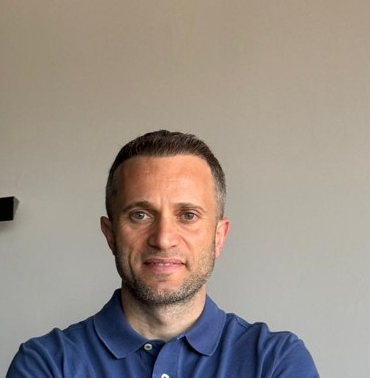
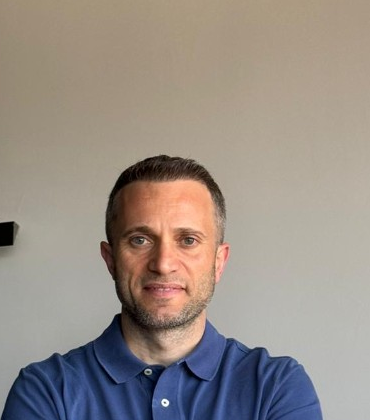
Add new speaker photos, reorder cards, apply noir filters

diff --git a/index.html b/index.html
@@ -315,11 +315,17 @@
       transition: filter .3s;
     }
     .speaker-card:hover .sp-photo { filter: grayscale(100%) brightness(1.08); }
-    .sp-photo--sinan { object-position: center 75%; }
+    .sp-photo--sinan { object-position: center top; }
+    .sp-photo--katov { filter: grayscale(100%) contrast(1.4) brightness(0.85); }
+    .sp-photo--katov:hover { filter: grayscale(100%) contrast(1.4) brightness(0.85); }
+    .sp-photo--rositsa { object-position: center top; filter: grayscale(100%) contrast(1.4) brightness(0.85); }
+    .sp-photo--rositsa:hover { filter: grayscale(100%) contrast(1.4) brightness(0.85); }
     .sp-photo--dimitrov { object-position: center 38%; }
     .sp-photo--mikel { object-position: center 28%; }
-    .sp-photo--godar { object-position: center 23%; }
-    .sp-photo--bratkov { object-position: center 27%; }
+    .sp-photo--godar { object-position: center 38%; filter: grayscale(100%) brightness(0.82); }
+    .sp-photo--godar:hover { filter: grayscale(100%) brightness(1.08); }
+    .sp-photo--bratkov { object-position: center 27%; filter: grayscale(100%) contrast(1.4) brightness(0.85); }
+    .sp-photo--bratkov:hover { filter: grayscale(100%) contrast(1.4) brightness(0.85); }
     .sp-photo--ilja { object-position: center 22%; }
     .sp-info {
       padding: 16px 18px 18px;
@@ -1057,8 +1063,9 @@
       <h2 data-i18n="speakers.title">Лектори</h2>
     </div>
     <div class="speakers-grid">
+      <!-- Row 1: Кътов, Браткова, Братков, Годар -->
       <div class="speaker-card">
-        <img class="sp-photo" src="sp-katov.png" alt="Георги Кътов" />
+        <img class="sp-photo sp-photo--katov" src="sp-katov.png" alt="Георги Кътов" />
         <div class="sp-info">
           <div class="sp-country" data-i18n="country.bg">България</div>
           <div class="sp-name" data-i18n="sp.katov">Георги Кътов</div>
@@ -1066,13 +1073,30 @@
         </div>
       </div>
       <div class="speaker-card">
-        <img class="sp-photo" src="sp-todorov.png" alt="Пламен Тодоров" />
+        <img class="sp-photo sp-photo--rositsa" src="sp-rositsa.png" alt="Росица Браткова" />
         <div class="sp-info">
           <div class="sp-country" data-i18n="country.bg">България</div>
-          <div class="sp-name" data-i18n="sp.todorov">Пламен Тодоров</div>
-          <div class="sp-studio">Zoom Studio</div>
+          <div class="sp-name" data-i18n="sp.rositsa">Росица Браткова</div>
+          <div class="sp-studio">AEDES Studio</div>
         </div>
       </div>
+      <div class="speaker-card">
+        <img class="sp-photo sp-photo--bratkov" src="sp-bradkov.png" alt="Пламен Братков" />
+        <div class="sp-info">
+          <div class="sp-country" data-i18n="country.bg">България</div>
+          <div class="sp-name" data-i18n="sp.bradkov">Пламен Братков</div>
+          <div class="sp-studio">AEDES Studio</div>
+        </div>
+      </div>
+      <div class="speaker-card">
+        <img class="sp-photo sp-photo--godar" src="sp-godar.png" alt="Naura Godar" />
+        <div class="sp-info">
+          <div class="sp-country">USA</div>
+          <div class="sp-name">Naura Godar</div>
+          <div class="sp-studio">RDG Design &amp; Planning</div>
+        </div>
+      </div>
+      <!-- Row 2: Митрович, Кузманович, Тодоров, Станчева -->
       <div class="speaker-card">
         <img class="sp-photo" src="sp-mitrovic.png" alt="Бранислав Митрович" />
         <div class="sp-info">
@@ -1090,19 +1114,19 @@
         </div>
       </div>
       <div class="speaker-card">
-        <img class="sp-photo sp-photo--bratkov" src="sp-bradkov.png" alt="Пламен Братков" />
+        <img class="sp-photo" src="sp-todorov.png" alt="Пламен Тодоров" />
         <div class="sp-info">
           <div class="sp-country" data-i18n="country.bg">България</div>
-          <div class="sp-name" data-i18n="sp.bradkov">Пламен Братков</div>
-          <div class="sp-studio">AEDES Studio</div>
+          <div class="sp-name" data-i18n="sp.todorov">Пламен Тодоров</div>
+          <div class="sp-studio">Zoom Studio</div>
         </div>
       </div>
       <div class="speaker-card">
-        <img class="sp-photo sp-photo--godar" src="sp-godar.png" alt="Naura Godar" />
+        <img class="sp-photo" src="sp-viktoria.png" alt="Виктория Станчева" />
         <div class="sp-info">
-          <div class="sp-country">USA</div>
-          <div class="sp-name">Naura Godar</div>
-          <div class="sp-studio">RDG Design &amp; Planning</div>
+          <div class="sp-country" data-i18n="country.bg">България</div>
+          <div class="sp-name" data-i18n="sp.viktoria">Виктория Станчева</div>
+          <div class="sp-studio">Zoom Studio</div>
         </div>
       </div>
       <div class="speaker-card">
@@ -1394,6 +1418,8 @@ const translations = {
     'sp.mitrovic': 'Бранислав Митрович',
     'sp.kuzmanovic': 'Елена Кузманович',
     'sp.bradkov': 'Пламен Братков',
+    'sp.rositsa': 'Росица Браткова',
+    'sp.viktoria': 'Виктория Станчева',
     'sp.dimitrov': 'Пламен Димитров',
     'talk.may30.1100': 'Architecture Talks · 30 Май · 11:00',
     'talk.may30.1200': 'Architecture Talks · 30 Май · 12:00',
@@ -1519,6 +1545,8 @@ const translations = {
     'sp.mitrovic': 'Branislav Mitrovic',
     'sp.kuzmanovic': 'Jelena Kuzmanovic',
     'sp.bradkov': 'Plamen Bratkov',
+    'sp.rositsa': 'Rositsa Bratkova',
+    'sp.viktoria': 'Viktoria Stancheva',
     'sp.dimitrov': 'Plamen Dimitrov',
     'talk.may30.1100': 'Architecture Talks · May 30 · 11:00',
     'talk.may30.1200': 'Architecture Talks · May 30 · 12:00',